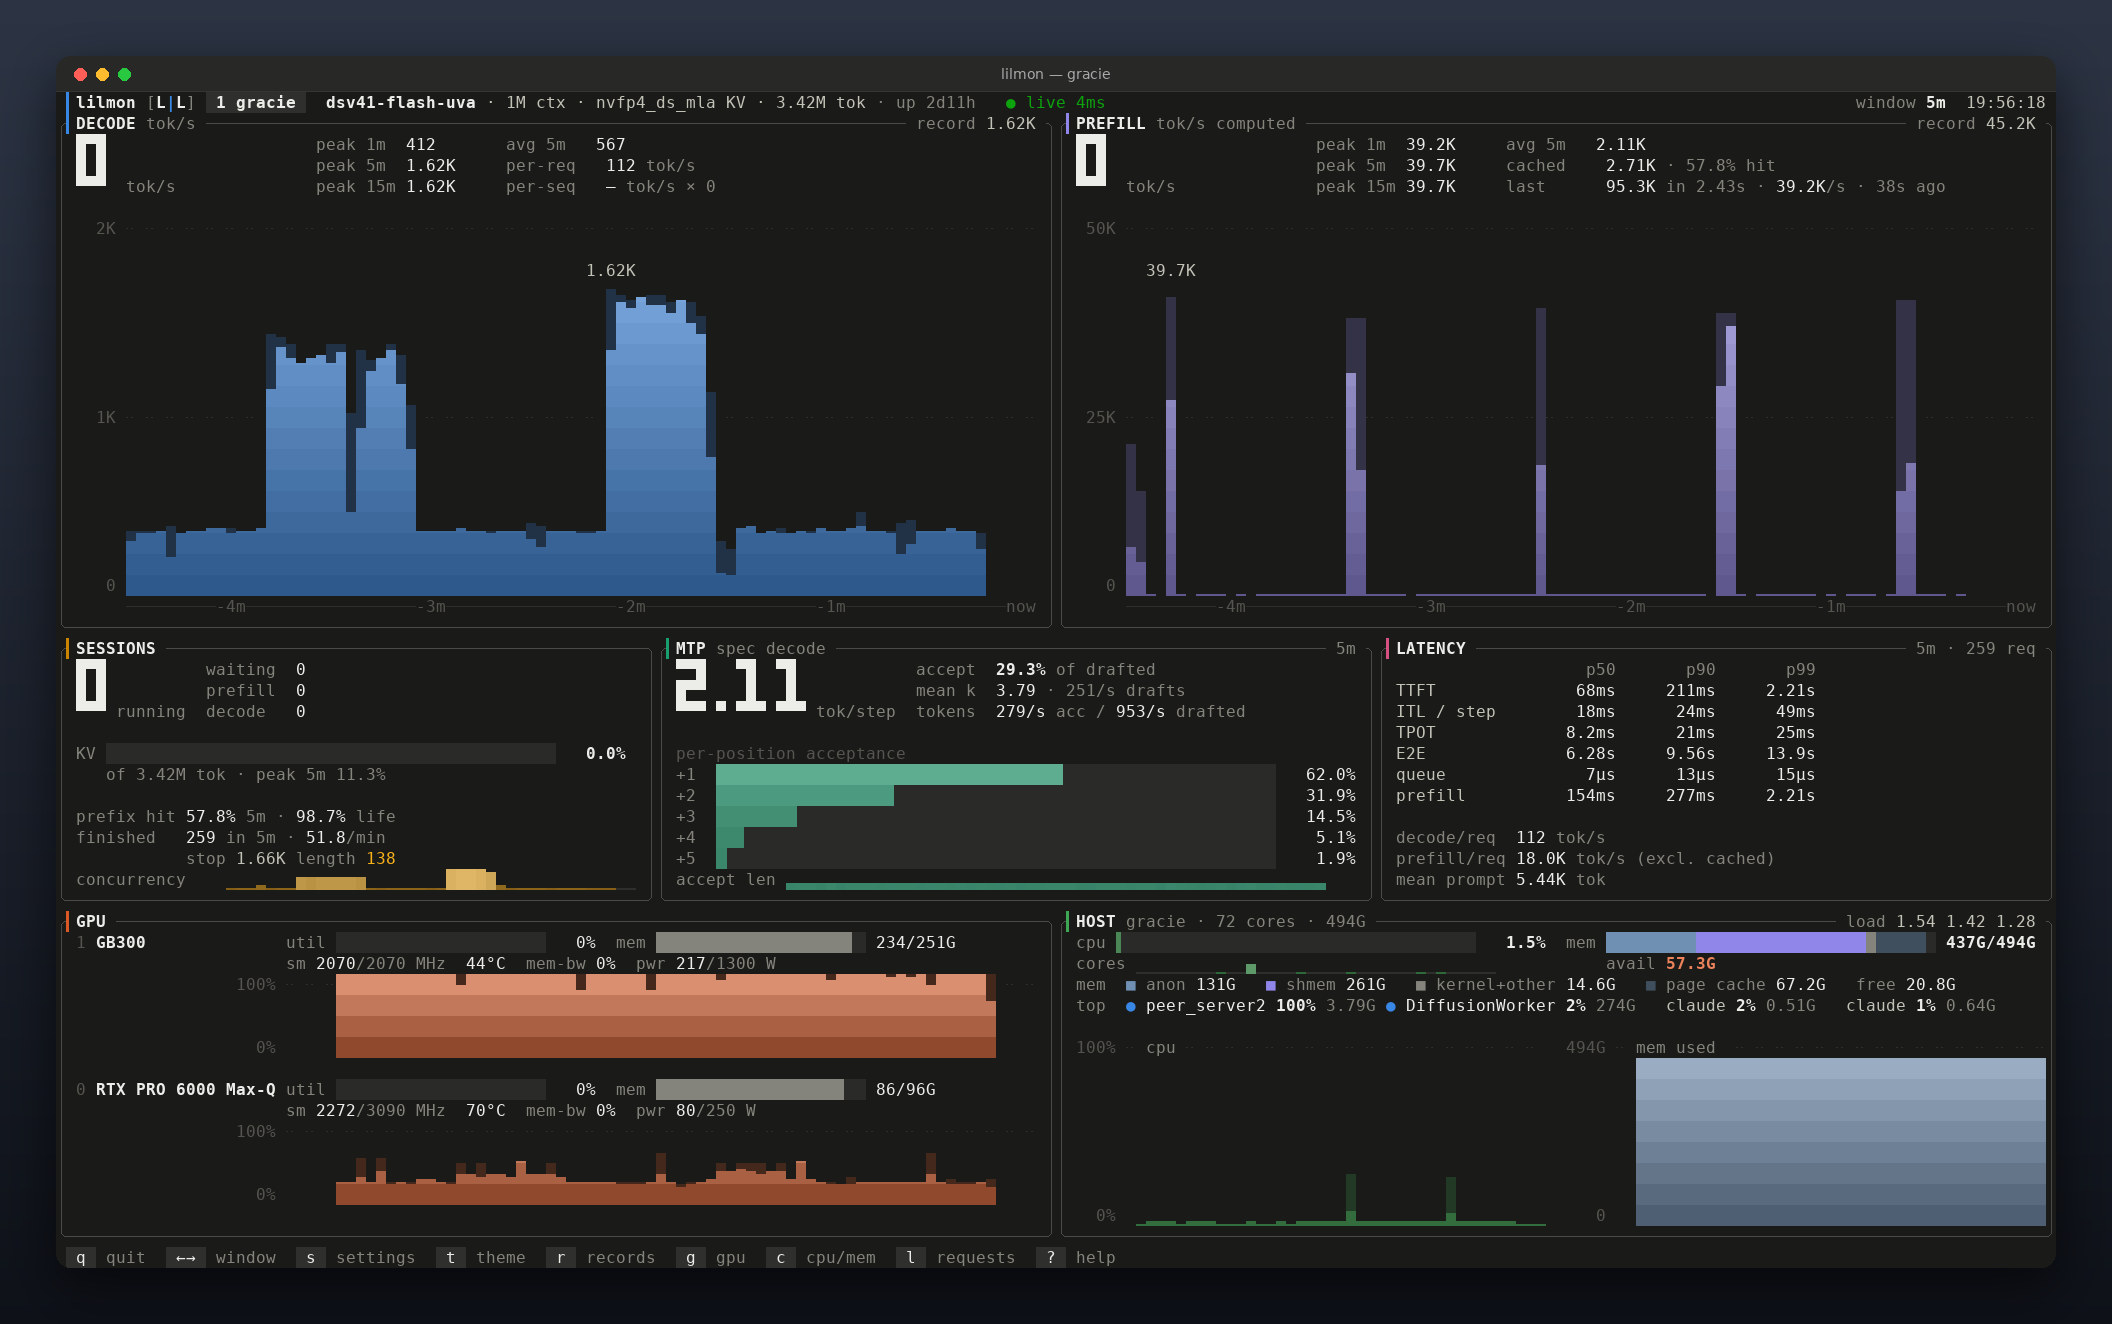
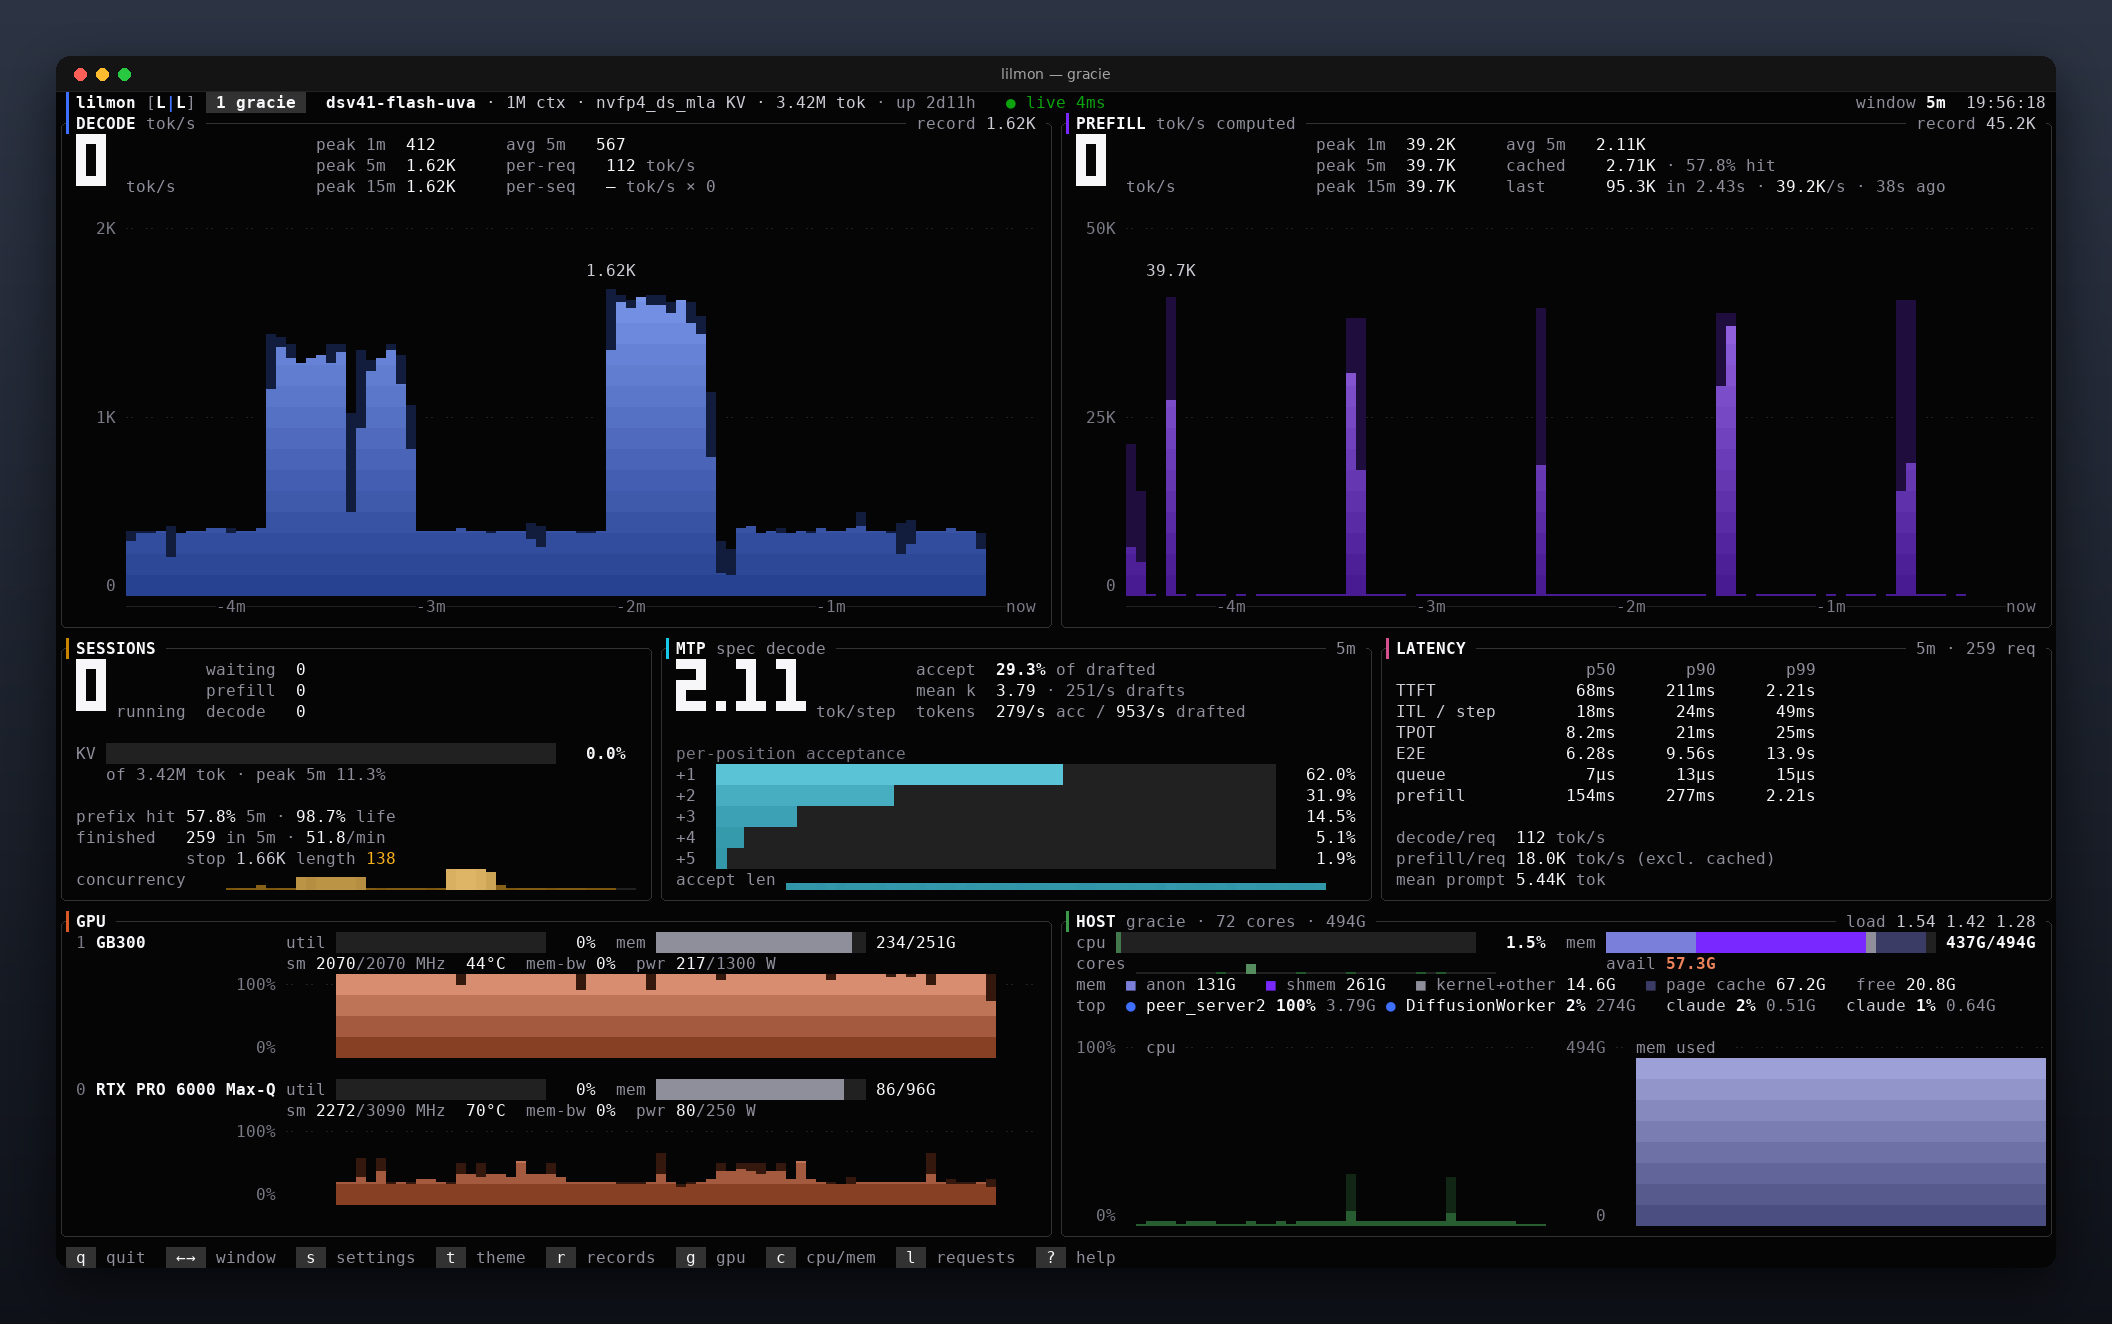
Add the lil theme and make it the default
lil uses the Local Inference Lab brand tokens from local-inference-lab/web:
--bg, --ink, --ink-soft, --muted and --faint, with hairlines from --line and
--line-strong. Decode, prefill and MTP use the exact --blue, --violet and
--cyan accents. The remaining series have no brand token and use a
validated palette.

- lil is first in the theme list and the config default. Unknown themes in
  a config fall back to it.
- README screenshots and the animation now show lil. The captured frames
  were re-colored with a hidden --theme-map FROM:TO flag that maps every
  color one theme can draw to the matching color in another.
- The gallery swaps in graphite for midnight.

diff --git a/src/main.rs b/src/main.rs
@@ -96,6 +96,10 @@ struct Cli {
     snapshot_out: Option<PathBuf>,
     #[arg(long, hide = true, value_delimiter = ',')]
     snapshot_themes: Vec<String>,
+    /// Print a JSON map from every color theme FROM can draw to the matching color in TO
+    /// (FROM:TO), used to re-color captured screenshot frames
+    #[arg(long, hide = true, value_name = "FROM:TO")]
+    theme_map: Option<String>,
     /// With --snapshot-out: also write frame_NNNN.jsonl every this many seconds while collecting
     #[arg(long, hide = true)]
     snapshot_every: Option<f64>,
@@ -642,7 +646,7 @@ fn build_app(cli: &Cli, file_cfg: &Config, cfg: Config, path: PathBuf) -> Result
     let mut startup_note = None;
     match theme::find(&cfg.ui.theme) {
         Some(i) => theme::set_index(i),
-        None => startup_note = Some(format!("unknown theme {:?} in config; using graphite", cfg.ui.theme)),
+        None => startup_note = Some(format!("unknown theme {:?} in config; using lil", cfg.ui.theme)),
     }
     let bg = Background::parse(&cfg.ui.background).unwrap_or_else(|| {
         startup_note = Some(format!("bad background {:?} in config; using the theme's", cfg.ui.background));
@@ -791,6 +795,37 @@ fn migrate_legacy() -> Vec<String> {
     notes
 }
 
+/// Every color theme `a` can draw, mapped to the same role in theme `b`. Tokens come first so they win
+/// over gradient samples that round to the same value.
+fn theme_map(spec: &str) -> Result<()> {
+    let (a, b) = spec.split_once(':').ok_or_else(|| anyhow::anyhow!("--theme-map takes FROM:TO"))?;
+    let find = |n: &str| theme::find(n).map(|i| &THEMES[i]).ok_or_else(|| anyhow::anyhow!("unknown theme {n}"));
+    let (ta, tb) = (find(a)?, find(b)?);
+    let mut m = serde_json::Map::new();
+    let mut put = |x: ratatui::style::Color, y: ratatui::style::Color| {
+        m.entry(color_hex(x)).or_insert_with(|| color_hex(y).into());
+    };
+    for (x, y) in [
+        (ta.bg, tb.bg), (ta.text, tb.text), (ta.text2, tb.text2), (ta.muted, tb.muted), (ta.faint, tb.faint),
+        (ta.border, tb.border), (ta.grid, tb.grid), (ta.track, tb.track), (ta.tab_bg, tb.tab_bg),
+        (ta.good, tb.good), (ta.warn, tb.warn), (ta.serious, tb.serious), (ta.crit, tb.crit),
+        (ta.mem_anon, tb.mem_anon), (ta.mem_shmem, tb.mem_shmem), (ta.mem_cache, tb.mem_cache), (ta.mem_other, tb.mem_other),
+    ] {
+        put(x, y);
+    }
+    let ramps = |t: &'static theme::Theme| [&t.decode, &t.prefill, &t.mtp, &t.kv, &t.gpu, &t.req, &t.cpu, &t.mem];
+    for (ra, rb) in ramps(ta).into_iter().zip(ramps(tb)) {
+        put(ra.key, rb.key);
+        put(ra.band, rb.band);
+        for i in 0..=4000 {
+            let f = i as f64 / 4000.0;
+            put(ra.at(f), rb.at(f));
+        }
+    }
+    println!("{}", serde_json::Value::Object(m));
+    Ok(())
+}
+
 fn list_themes(current: &str) {
     let fg = |c: ratatui::style::Color| match c {
         ratatui::style::Color::Rgb(r, g, b) => format!("\x1b[38;2;{r};{g};{b}m"),
@@ -933,6 +968,9 @@ fn main() -> Result<()> {
     let cli = Cli::parse();
     let migrated = if cli.config.is_none() && !cli.no_history { migrate_legacy() } else { vec![] };
     let (file_cfg, cfg, path, exists) = effective_config(&cli)?;
+    if let Some(spec) = &cli.theme_map {
+        return theme_map(spec);
+    }
     if cli.list_themes {
         list_themes(&cfg.ui.theme);
         return Ok(());

diff --git a/src/ui/theme.rs b/src/ui/theme.rs
@@ -138,10 +138,23 @@ const fn build(s: Spec) -> Theme {
     }
 }
 
-pub static THEMES: [Theme; 13] = [
+pub static THEMES: [Theme; 14] = [
+    build(Spec {
+        name: "lil",
+        description: "Default. Local Inference Lab brand colors: near-black ground, cool ink, and the lab's violet, blue and cyan accents on the charts.",
+        light: false,
+        // Tokens from the lab's brand system (local-inference-lab/web styles.css): --bg, --ink,
+        // --ink-soft, --muted, --faint. Hairlines are --line / --line-strong composited over --bg.
+        bg: 0x050506, text: 0xf7f7fa, text2: 0xcbcbd3, muted: 0x8f8f9b, faint: 0x7a7a86,
+        border: 0x323233, grid: 0x212121, track: 0x212121, tab: 0x323233,
+        status: [0x0ca30c, 0xfab219, 0xec835a, 0xd03b3b],
+        // decode, prefill and MTP use the exact --blue, --violet and --cyan accents; the remaining
+        // series have no brand token and use the validated set from docs/brand/BRAND_NOTES.md
+        series: [0x3f6fff, 0x7928ff, 0x18c8e9, 0xc98500, 0xd95926, 0xd4508f, 0x3a9a4a, 0x7a7fd9],
+    }),
     build(Spec {
         name: "graphite",
-        description: "Default. Warm graphite surface with a colorblind-checked palette: blue decode, violet prefill, aqua MTP, amber KV.",
+        description: "Warm graphite surface with a colorblind-checked palette: blue decode, violet prefill, aqua MTP, amber KV.",
         light: false,
         bg: 0x1a1a19, text: 0xecece8, text2: 0xc3c2b7, muted: 0x85847c, faint: 0x55544f,
         border: 0x4a4a46, grid: 0x2e2e2c, track: 0x2a2a28, tab: 0x2f2f2d,
@@ -371,6 +384,12 @@ mod tests {
     }
 
     #[test]
+    fn lil_is_the_default_theme() {
+        assert_eq!(THEMES[0].name, "lil");
+        assert_eq!(crate::config::UiConfig::default().theme, "lil");
+    }
+
+    #[test]
     fn background_parse() {
         assert_eq!(Background::parse("none"), Some(Background::None));
         assert_eq!(Background::parse("#102030"), Some(Background::Color(rgb(0x102030))));
@@ -380,7 +399,7 @@ mod tests {
 
     #[test]
     fn graphite_ramps_stay_close_to_hand_tuned_originals() {
-        let d = &THEMES[0].decode;
+        let d = &THEMES[find("graphite").unwrap()].decode;
         let close = |a: (u8, u8, u8), b: (u8, u8, u8)| {
             (a.0 as i32 - b.0 as i32).abs() <= 24 && (a.1 as i32 - b.1 as i32).abs() <= 24 && (a.2 as i32 - b.2 as i32).abs() <= 24
         };

diff --git a/src/config.rs b/src/config.rs
@@ -119,7 +119,7 @@ impl Default for Config {
 impl Default for UiConfig {
     fn default() -> Self {
         UiConfig {
-            theme: "graphite".into(),
+            theme: "lil".into(),
             background: "theme".into(),
             window: None,
             peaks: vec!["1m".into(), "5m".into(), "15m".into()],

diff --git a/README.md b/README.md
@@ -33,8 +33,8 @@ A fast, good-looking terminal dashboard for <a href="https://github.com/vllm-pro
   - Optional per-request rows from LiteLLM.
 - **Featherweight and hands-off.** A single ~2.5 MB Rust binary that uses about 0.6% of one core. It only
   ever sends GET requests to endpoints vLLM already exposes.
-- **Yours to style.** 13 themes, a background that works on transparent terminals, and live settings
-  you can save back to the config file.
+- **Yours to style.** 14 themes (the default, `lil`, uses the Local Inference Lab brand colors), a
+  background that works on transparent terminals, and live settings you can save back to the config file.
 
 ## Install
 
@@ -72,8 +72,8 @@ Press `?` inside lilmon for help, `s` for settings, and `t` to flip through them
 </p>
 
 <details open>
-<summary><b>Themes</b>: 8 of the 13 shown (graphite is the dashboard above, contrast the animation)</summary>
-<p align="center"><img src="docs/screenshots/themes.webp" alt="lilmon in the midnight, nord, dracula, gruvbox, catppuccin, synthwave, phosphor and paper themes" width="100%"></p>
+<summary><b>Themes</b>: 8 of the 14 shown (the default <code>lil</code> theme is the animation and dashboard above)</summary>
+<p align="center"><img src="docs/screenshots/themes.webp" alt="lilmon in the graphite, nord, dracula, gruvbox, catppuccin, synthwave, phosphor and paper themes" width="100%"></p>
 </details>
 
 <details>
@@ -128,7 +128,8 @@ prints each with color swatches. Every theme uses the same layout; only the colo
 
 | theme | description |
 |---|---|
-| `graphite` | Default. Warm graphite surface with a colorblind-checked palette: blue decode, violet prefill, aqua MTP, amber KV. |
+| `lil` | Default. Local Inference Lab brand colors: near-black ground, cool ink, and the lab's violet, blue and cyan accents on the charts. |
+| `graphite` | Warm graphite surface with a colorblind-checked palette: blue decode, violet prefill, aqua MTP, amber KV. |
 | `midnight` | Deep navy night sky with crisp electric accents. Calm and high-clarity for dark rooms. |
 | `nord` | Arctic and north-bluish: frosted cyans over polar-night slate, with muted aurora accents (Nord palette). |
 | `dracula` | Vivid neon pastels (cyan, purple, pink) on a dusky violet-gray (Dracula palette). |
